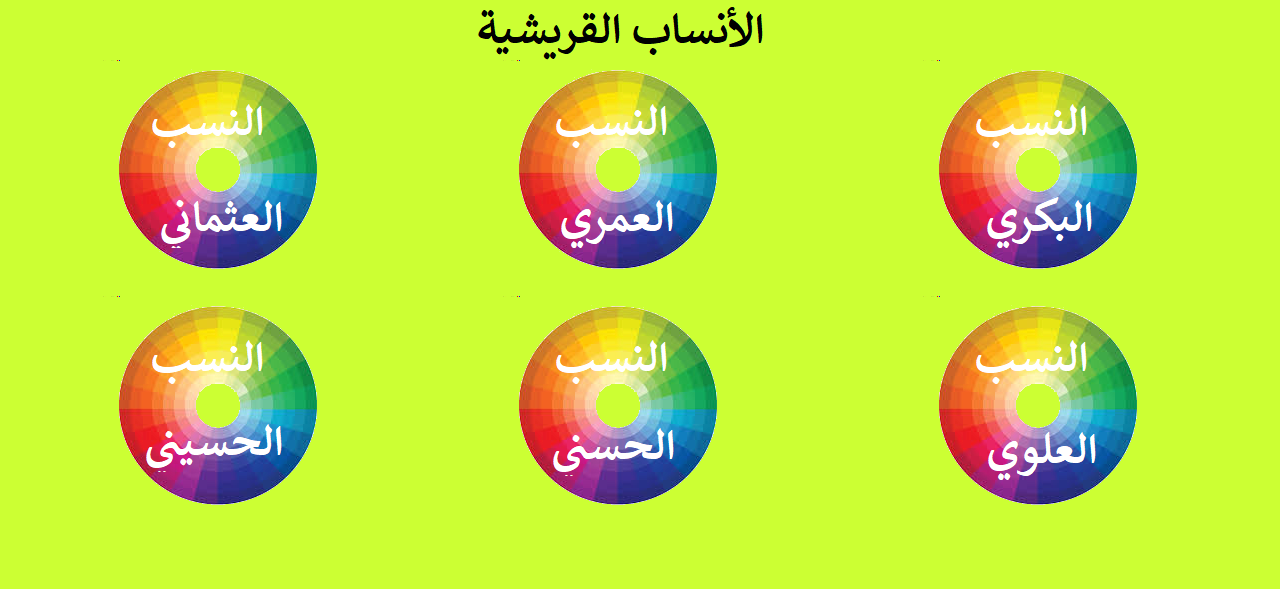
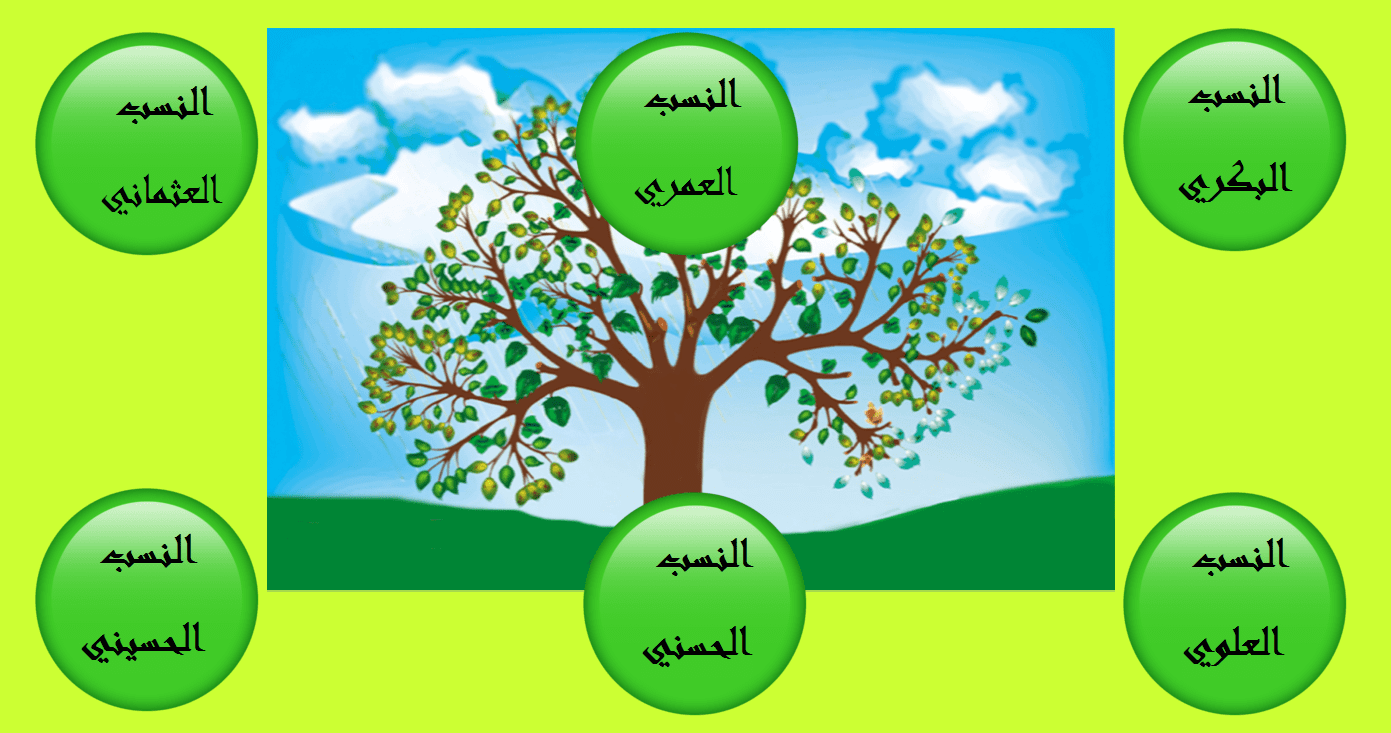
update

diff --git a/index1.html b/index1.html
@@ -3,7 +3,7 @@
 
 <head>
 <meta content="text/html; charset=utf-8" http-equiv="Content-Type" />
-<title>الأنساب القربشية</title>
+<title>الأنساب القريشية</title>
 <script type="text/javascript">
 <!--
 function FP_swapImg() {//v1.0
@@ -30,27 +30,27 @@ function FP_getObjectByID(id,o) {//v1.0
 </script>
 </head>
 
-<body style="background-color: #CCFF33" onload="FP_preloadImgs(/*url*/'button2011.gif',/*url*/'button2012.gif',/*url*/'button2014.gif',/*url*/'button2015.gif',/*url*/'button2017.gif',/*url*/'button2018.gif',/*url*/'button2019.gif',/*url*/'buttonA95.gif',/*url*/'buttonF51.gif',/*url*/'button2020.gif',/*url*/'button2021.gif',/*url*/'button2022.gif')">
+<body style="color: #CCFF33; background-color: #CCFF33" onload="FP_preloadImgs(/*url*/'button2279.gif',/*url*/'buttonA104.gif',/*url*/'button2281.gif',/*url*/'button2282.gif',/*url*/'button2283.gif',/*url*/'button2284.gif',/*url*/'button2285.gif',/*url*/'button2286.gif',/*url*/'button1A16.gif',/*url*/'button1B18.gif',/*url*/'button2287.gif',/*url*/'button2288.gif')">
 
-<div id="layer1" style="position: absolute; width: 48px; height: 42px; z-index: 1; left: 600px; top: 155px">
-	<a href="Omar%20bin%20Elkhattab.html">
-	<img id="img1" alt="" height="44" onmousedown="FP_swapImg(1,0,/*id*/'img1',/*url*/'button2012.gif')" onmouseout="FP_swapImg(0,0,/*id*/'img1',/*url*/'button2013.gif')" onmouseover="FP_swapImg(1,0,/*id*/'img1',/*url*/'button2011.gif')" onmouseup="FP_swapImg(0,0,/*id*/'img1',/*url*/'button2011.gif')" src="button2013.gif" style="border: 0" width="220" /><!-- MSComment="ibutton" fp-style="fp-btn: Jewel 3; fp-font-style: Bold; fp-transparent: 1" fp-title="" --></a></div>
-<div id="layer2" style="position: absolute; width: 63px; height: 58px; z-index: 2; left: 1021px; top: 158px">
+<div id="layer1" style="position: absolute; width: 46px; height: 43px; z-index: 1; left: 1215px; top: 127px">
 	<a href="abu-bakr.html">
-	<img id="img2" alt="" height="44" onmousedown="FP_swapImg(1,0,/*id*/'img2',/*url*/'button2015.gif')" onmouseout="FP_swapImg(0,0,/*id*/'img2',/*url*/'button2016.gif')" onmouseover="FP_swapImg(1,0,/*id*/'img2',/*url*/'button2014.gif')" onmouseup="FP_swapImg(0,0,/*id*/'img2',/*url*/'button2014.gif')" src="button2016.gif" style="border: 0" width="220" /><!-- MSComment="ibutton" fp-style="fp-btn: Jewel 3; fp-font-style: Bold; fp-transparent: 1" fp-title="" --></a></div>
-<div id="layer3" style="position: absolute; width: 60px; height: 52px; z-index: 3; left: 201px; top: 157px">
+	<img id="img1" alt="" height="40" onmousedown="FP_swapImg(1,0,/*id*/'img1',/*url*/'buttonA104.gif')" onmouseout="FP_swapImg(0,0,/*id*/'img1',/*url*/'button2280.gif')" onmouseover="FP_swapImg(1,0,/*id*/'img1',/*url*/'button2279.gif')" onmouseup="FP_swapImg(0,0,/*id*/'img1',/*url*/'button2279.gif')" src="button2280.gif" style="border: 0" width="200" /><!-- MSComment="ibutton" fp-style="fp-btn: Simple Circle 2; fp-font-style: Bold; fp-transparent: 1" fp-title="" --></a></div>
+<div id="layer2" style="position: absolute; width: 48px; height: 39px; z-index: 2; left: 674px; top: 133px">
+	<a href="Omar%20bin%20Elkhattab.html">
+	<img id="img2" alt="" height="40" onmousedown="FP_swapImg(1,0,/*id*/'img2',/*url*/'button2282.gif')" onmouseout="FP_swapImg(0,0,/*id*/'img2',/*url*/'button2289.gif')" onmouseover="FP_swapImg(1,0,/*id*/'img2',/*url*/'button2281.gif')" onmouseup="FP_swapImg(0,0,/*id*/'img2',/*url*/'button2281.gif')" src="button2289.gif" style="border: 0" width="200" /><!-- MSComment="ibutton" fp-style="fp-btn: Simple Circle 2; fp-transparent: 1" fp-title="" --></a></div>
+<div id="layer3" style="position: absolute; width: 49px; height: 43px; z-index: 3; left: 141px; top: 139px">
 	<a href="othman-ben-affan.html">
-	<img id="img3" alt="" height="44" onmousedown="FP_swapImg(1,0,/*id*/'img3',/*url*/'button2018.gif')" onmouseout="FP_swapImg(0,0,/*id*/'img3',/*url*/'button2023.gif')" onmouseover="FP_swapImg(1,0,/*id*/'img3',/*url*/'button2017.gif')" onmouseup="FP_swapImg(0,0,/*id*/'img3',/*url*/'button2017.gif')" src="button2023.gif" style="border: 0" width="220" /><!-- MSComment="ibutton" fp-style="fp-btn: Jewel 3; fp-font-style: Bold; fp-transparent: 1" fp-title="" --></a></div>
-<div id="layer4" style="position: absolute; width: 54px; height: 49px; z-index: 4; left: 1022px; top: 392px">
+	<img id="img3" alt="" height="40" onmousedown="FP_swapImg(1,0,/*id*/'img3',/*url*/'button2284.gif')" onmouseout="FP_swapImg(0,0,/*id*/'img3',/*url*/'button2290.gif')" onmouseover="FP_swapImg(1,0,/*id*/'img3',/*url*/'button2283.gif')" onmouseup="FP_swapImg(0,0,/*id*/'img3',/*url*/'button2283.gif')" src="button2290.gif" style="border: 0" width="200" /><!-- MSComment="ibutton" fp-style="fp-btn: Simple Circle 2; fp-transparent: 1" fp-title="" --></a></div>
+<div id="layer4" style="position: absolute; width: 48px; height: 45px; z-index: 4; left: 1229px; top: 594px">
 	<a href="ali-ben-abitaleb.html">
-	<img id="img4" alt="" height="44" onmousedown="FP_swapImg(1,0,/*id*/'img4',/*url*/'buttonA95.gif')" onmouseout="FP_swapImg(0,0,/*id*/'img4',/*url*/'button2024.gif')" onmouseover="FP_swapImg(1,0,/*id*/'img4',/*url*/'button2019.gif')" onmouseup="FP_swapImg(0,0,/*id*/'img4',/*url*/'button2019.gif')" src="button2024.gif" style="border: 0" width="220" /><!-- MSComment="ibutton" fp-style="fp-btn: Jewel 3; fp-font-style: Bold; fp-transparent: 1" fp-title="" --></a></div>
-<div id="layer5" style="position: absolute; width: 72px; height: 63px; z-index: 5; left: 600px; top: 394px">
+	<img id="img4" alt="" height="40" onmousedown="FP_swapImg(1,0,/*id*/'img4',/*url*/'button2286.gif')" onmouseout="FP_swapImg(0,0,/*id*/'img4',/*url*/'button2291.gif')" onmouseover="FP_swapImg(1,0,/*id*/'img4',/*url*/'button2285.gif')" onmouseup="FP_swapImg(0,0,/*id*/'img4',/*url*/'button2285.gif')" src="button2291.gif" style="border: 0" width="200" /><!-- MSComment="ibutton" fp-style="fp-btn: Simple Circle 2; fp-transparent: 1" fp-title="" --></a></div>
+<div id="layer5" style="position: absolute; width: 49px; height: 45px; z-index: 5; left: 682px; top: 592px">
 	<a href="alhassan-ben-ali.html">
-	<img id="img5" alt="" height="44" onmousedown="FP_swapImg(1,0,/*id*/'img5',/*url*/'button2020.gif')" onmouseout="FP_swapImg(0,0,/*id*/'img5',/*url*/'buttonE63.gif')" onmouseover="FP_swapImg(1,0,/*id*/'img5',/*url*/'buttonF51.gif')" onmouseup="FP_swapImg(0,0,/*id*/'img5',/*url*/'buttonF51.gif')" src="buttonE63.gif" style="border: 0" width="220" /><!-- MSComment="ibutton" fp-style="fp-btn: Jewel 3; fp-font-style: Bold; fp-transparent: 1" fp-title="" --></a></div>
-<div id="layer6" style="position: absolute; width: 65px; height: 62px; z-index: 6; left: 199px; top: 393px">
+	<img id="img5" alt="" height="40" onmousedown="FP_swapImg(1,0,/*id*/'img5',/*url*/'button1B18.gif')" onmouseout="FP_swapImg(0,0,/*id*/'img5',/*url*/'button2292.gif')" onmouseover="FP_swapImg(1,0,/*id*/'img5',/*url*/'button1A16.gif')" onmouseup="FP_swapImg(0,0,/*id*/'img5',/*url*/'button1A16.gif')" src="button2292.gif" style="border: 0" width="200" /><!-- MSComment="ibutton" fp-style="fp-btn: Simple Circle 2; fp-transparent: 1" fp-title="" --></a></div>
+<div id="layer6" style="position: absolute; width: 43px; height: 42px; z-index: 6; left: 133px; top: 589px">
 	<a href="alhusein-ben-ali.html">
-	<img id="img6" alt="" height="44" onmousedown="FP_swapImg(1,0,/*id*/'img6',/*url*/'button2022.gif')" onmouseout="FP_swapImg(0,0,/*id*/'img6',/*url*/'button2025.gif')" onmouseover="FP_swapImg(1,0,/*id*/'img6',/*url*/'button2021.gif')" onmouseup="FP_swapImg(0,0,/*id*/'img6',/*url*/'button2021.gif')" src="button2025.gif" style="border: 0" width="220" /><!-- MSComment="ibutton" fp-style="fp-btn: Jewel 3; fp-font-style: Bold; fp-transparent: 1" fp-title="" --></a></div>
-<img alt="" height="589" src="index1.png" width="1280" />
+	<img id="img6" alt="" height="40" onmousedown="FP_swapImg(1,0,/*id*/'img6',/*url*/'button2288.gif')" onmouseout="FP_swapImg(0,0,/*id*/'img6',/*url*/'button1F12.gif')" onmouseover="FP_swapImg(1,0,/*id*/'img6',/*url*/'button2287.gif')" onmouseup="FP_swapImg(0,0,/*id*/'img6',/*url*/'button2287.gif')" src="button1F12.gif" style="border: 0" width="200" /><!-- MSComment="ibutton" fp-style="fp-btn: Simple Circle 2; fp-transparent: 1" fp-title="" --></a></div>
+<img alt="" height="733" src="index1.png" width="1391" />
 
 </body>
 
